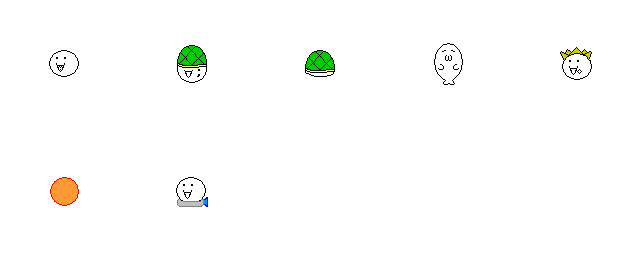
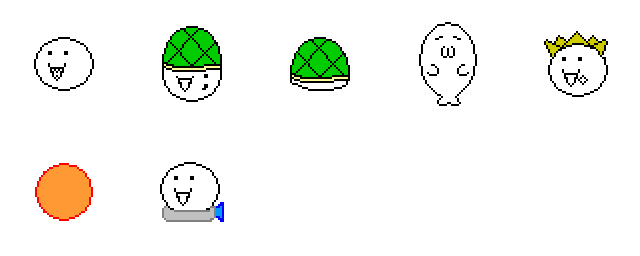
이수환: 몬스터 배치 완료

diff --git a/Cat_Mario_API/Contents/WhiteCircle.cpp b/Cat_Mario_API/Contents/WhiteCircle.cpp
@@ -9,10 +9,18 @@
 #include <EngineCore/ImageManager.h>
 
 #include "GameMode_FirstMap.h"
+#include "Enum.h"
 
 
 WhiteCircle::WhiteCircle()
 {
+	{
+		MonsterRenderer = CreateDefaultSubObject<USpriteRenderer>();
+		MonsterRenderer->SetSprite("CMmon_Right.png");
+		MonsterRenderer->SetOrder(ERenderOrder::PLAYER);
+		MonsterRenderer->SetComponentScale({ 120, 120 });
+	}
+
 	MonsterRenderer->CreateAnimation("Mon_RunRight", "CMmon_Right.png", 0, 0, 0.5f);
 	MonsterRenderer->CreateAnimation("Mon_RunLeft", "CMmon_Left.png", 0, 0, 0.5f);
 
@@ -31,7 +39,7 @@ void WhiteCircle::BeginPlay()
 
 void WhiteCircle::Tick(float _DeltaTime)
 {
-	AddActorLocation(FVector2D::LEFT);
+	/*AddActorLocation(FVector2D::LEFT);*/
 }
 
 void WhiteCircle::PlayerGroundCheck(FVector2D _MovePos)

diff --git a/Cat_Mario_API/Contents/CatMarioGame.cpp b/Cat_Mario_API/Contents/CatMarioGame.cpp
@@ -72,8 +72,8 @@ void CatMarioGame::BeginPlay()
 	UImageManager::GetInst().CuttingSprite("CMPlayer_Right.png", { 128, 128 });
 	UImageManager::GetInst().CuttingSprite("CMPlayer_Left.png", { 128, 128 });
 	UImageManager::GetInst().CuttingSprite("CMnum.png", { 128, 128 });
-
-
+	UImageManager::GetInst().CuttingSprite("CMmon_Right.png", { 128, 128 });
+	UImageManager::GetInst().CuttingSprite("CMmon_Left.png", { 128, 128 });
 
 	UEngineAPICore::GetCore()->GetMainWindow().SetWindowTitle("Cat Mario Game");
 

diff --git a/Cat_Mario_API/Contents/GameMode_FirstMap.cpp b/Cat_Mario_API/Contents/GameMode_FirstMap.cpp
@@ -55,7 +55,7 @@ void GameMode_FirstMap::BeginPlay()
 	}
 	{
 		WhiteCircle* NewActor = GetWorld()->SpawnActor<WhiteCircle>();
-		NewActor->SetActorLocation({ 785, 528 });
+		NewActor->SetActorLocation({ 300, 700 });
 	}
 }
 
